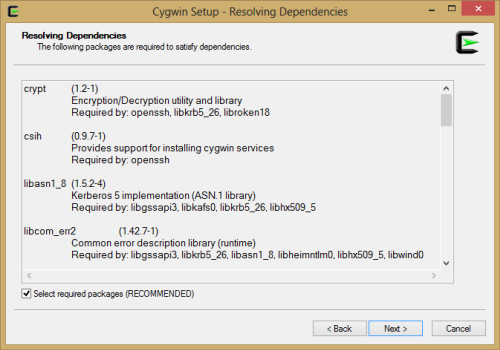
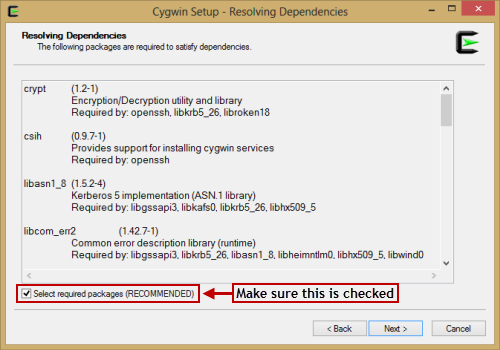
images

Changed region(s): [[0.03, 0.8, 0.81, 0.8857]]

diff --git a/Feral Wiki/Other software/Cygwin - Linux tools on Windows/readme.md b/Feral Wiki/Other software/Cygwin - Linux tools on Windows/readme.md
@@ -1,0 +1,95 @@
+
+### Installing cygwin on Windows
+
+First you will need to download and run the Cygwin setup file: [Cygwin setup-x86.exe](http://cygwin.com/setup-x86.exe)
+
+There is a x64 version but it does not have all the programs we need. Also it installs alongside, in a separate location, from the x86 files if you want to install it.
+
+### Step 1: Run the setup-x86.exe
+
+Upon running the setup exe you will be presented with this screen. You will have to navigate through these screens as shown int he images.
+
+![](https://raw.github.com/feralhosting/feralfilehosting/master/Feral%20Wiki/Other%20software/Cygwin%20-%20Linux%20tools%20on%20Windows/1.png)
+![](https://raw.github.com/feralhosting/feralfilehosting/master/Feral%20Wiki/Other%20software/Cygwin%20-%20Linux%20tools%20on%20Windows/2.png)
+![](https://raw.github.com/feralhosting/feralfilehosting/master/Feral%20Wiki/Other%20software/Cygwin%20-%20Linux%20tools%20on%20Windows/3.png)
+![](https://raw.github.com/feralhosting/feralfilehosting/master/Feral%20Wiki/Other%20software/Cygwin%20-%20Linux%20tools%20on%20Windows/4.png)
+![](https://raw.github.com/feralhosting/feralfilehosting/master/Feral%20Wiki/Other%20software/Cygwin%20-%20Linux%20tools%20on%20Windows/5.png)
+![](https://raw.github.com/feralhosting/feralfilehosting/master/Feral%20Wiki/Other%20software/Cygwin%20-%20Linux%20tools%20on%20Windows/6.png)
+![](https://raw.github.com/feralhosting/feralfilehosting/master/Feral%20Wiki/Other%20software/Cygwin%20-%20Linux%20tools%20on%20Windows/7.png)
+
+### Step 2: Select out packages
+
+This is what you will see once you have completed Step 1. This screen can seem quite overwhelming at first, but it is quite simple.
+
+**Important note:**By default Cygwin will only install the basic and critical files it needs to run. 
+
+We want to install these programs:
+
+~~~
+cygrunsrv
+lftp
+cron
+openssh
+openssl
+nano
+~~~
+
+![](https://raw.github.com/feralhosting/feralfilehosting/master/Feral%20Wiki/Other%20software/Cygwin%20-%20Linux%20tools%20on%20Windows/apps.1.png)
+
+This is the first program we want to install:
+
+~~~
+cygrunsrv
+~~~
+
+![](https://raw.github.com/feralhosting/feralfilehosting/master/Feral%20Wiki/Other%20software/Cygwin%20-%20Linux%20tools%20on%20Windows/apps.cygrunsrv.png)
+
+~~~
+lftp
+~~~
+
+![](https://raw.github.com/feralhosting/feralfilehosting/master/Feral%20Wiki/Other%20software/Cygwin%20-%20Linux%20tools%20on%20Windows/apps.lftp.png)
+
+~~~
+cron
+~~~
+
+![](https://raw.github.com/feralhosting/feralfilehosting/master/Feral%20Wiki/Other%20software/Cygwin%20-%20Linux%20tools%20on%20Windows/apps.cron.png)
+
+~~~
+openssh
+~~~
+
+![](https://raw.github.com/feralhosting/feralfilehosting/master/Feral%20Wiki/Other%20software/Cygwin%20-%20Linux%20tools%20on%20Windows/apps.openssh.png)
+
+~~~
+openssl
+~~~
+
+![](https://raw.github.com/feralhosting/feralfilehosting/master/Feral%20Wiki/Other%20software/Cygwin%20-%20Linux%20tools%20on%20Windows/apps.openssl.png)
+
+~~~
+nano
+~~~
+
+![](https://raw.github.com/feralhosting/feralfilehosting/master/Feral%20Wiki/Other%20software/Cygwin%20-%20Linux%20tools%20on%20Windows/apps.nano.png)
+
+Once you have selected all the programs above for installation click on `Next` to start the installation process.
+
+### Step 3: Installing the programs
+
+You will see this screen about installing the required dependencies for any programs you have selected.
+
+**Important note:** You need to make sure `Select required packages (RECOMMENDED)` is checked.
+
+Then click on `Next`
+
+![](https://raw.github.com/feralhosting/feralfilehosting/master/Feral%20Wiki/Other%20software/Cygwin%20-%20Linux%20tools%20on%20Windows/finish.1.png)
+
+It will now download an install the programs. This can take some time so be patient.
+
+![](https://raw.github.com/feralhosting/feralfilehosting/master/Feral%20Wiki/Other%20software/Cygwin%20-%20Linux%20tools%20on%20Windows/finish.2.png)
+
+
+
+![](https://raw.github.com/feralhosting/feralfilehosting/master/Feral%20Wiki/Other%20software/Cygwin%20-%20Linux%20tools%20on%20Windows/finish.3.png)
